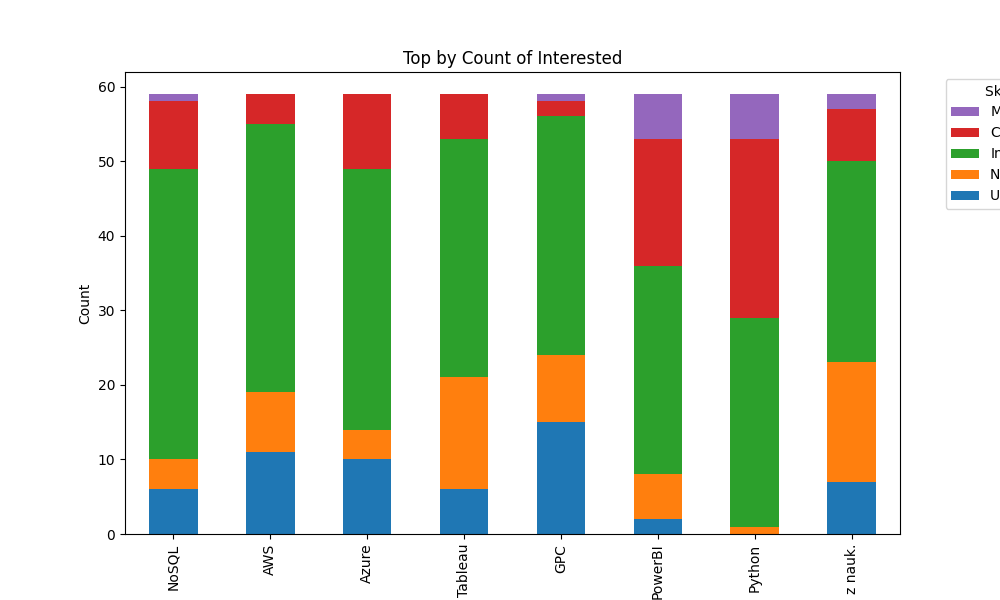
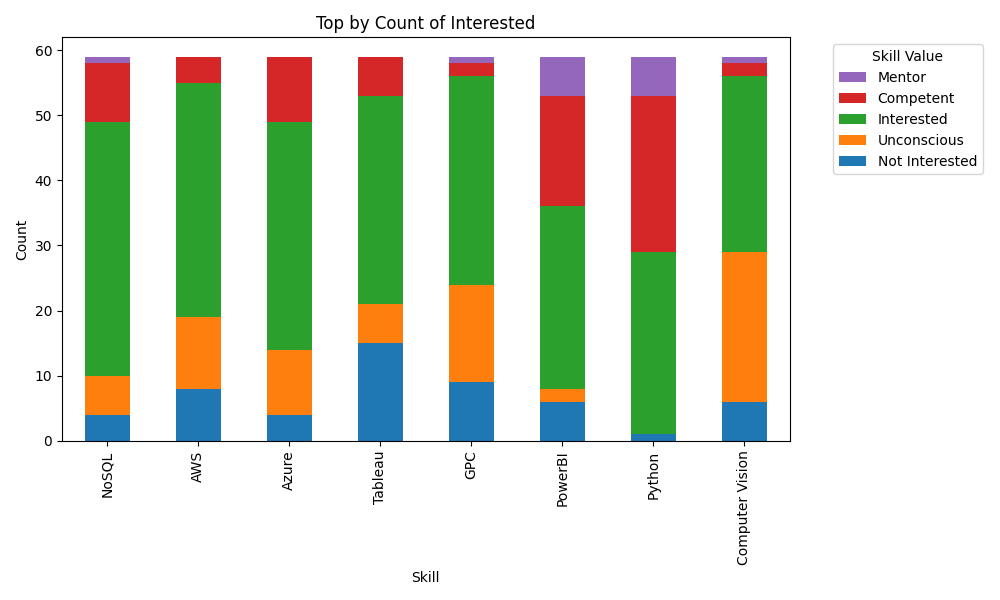
amending pipelines

diff --git a/src/wait_people_analytics/pipelines/clustering/nodes.py b/src/wait_people_analytics/pipelines/clustering/nodes.py
@@ -1,18 +1,143 @@
 from typing import Any
 
+import numpy as np
 import pandas as pd
 import matplotlib.pyplot as plt
 import scipy.cluster.hierarchy as sch
+import seaborn as sns
+from sklearn.cluster import KMeans
+from sklearn.cluster import AgglomerativeClustering
 
 
-def generate_hierarchical_clustering_visual(df: pd.DataFrame) -> Any:
-    filtered_df = df.drop(columns="ID")
-    filtered_df = filtered_df.replace({0: 1, 1: 0})
-    clustering = sch.linkage(filtered_df, method="ward")
-    plt.figure(figsize=(10, 4))
-    sch.dendrogram(clustering)
-    plt.xticks(rotation=90)
-    plt.title("Dendrogram")
-    plt.xlabel("UserId")
-    plt.ylabel("Distance")
+def prepare_data_for_clustering(
+    df: pd.DataFrame,
+    clustering_skill_scaling: dict[int, int],
+    selected_columns: list[str],
+) -> pd.DataFrame:
+    df = df[[*selected_columns]]
+    ids = df["ID"]
+    df = df.drop(columns="ID")
+    replaced = df.replace(clustering_skill_scaling)
+    replaced.insert(0, "ID", "")
+    replaced["ID"] = ids
+    return replaced
+
+
+def generate_hierarchical_clustering_visual(
+    df: pd.DataFrame,
+    hierarchical_params: dict[str, Any],
+) -> Any:
+    df = df.drop(columns="ID")
+
+    ac = AgglomerativeClustering(
+        **{
+            **hierarchical_params,
+            "distance_threshold": 0,
+            "n_clusters": None,
+        }
+    )
+    model = ac.fit(df)
+
+    counts = np.zeros(model.children_.shape[0])
+    n_samples = len(model.labels_)
+    for i, merge in enumerate(model.children_):
+        current_count = 0
+        for child_idx in merge:
+            if child_idx < n_samples:
+                current_count += 1  # leaf node
+            else:
+                current_count += counts[child_idx - n_samples]
+        counts[i] = current_count
+
+    linkage_matrix = np.column_stack(
+        [model.children_, model.distances_, counts]
+    ).astype(float)
+
+    # Plot the corresponding dendrogram
+    sch.dendrogram(linkage_matrix)
+
+    # plt.figure(figsize=(10, 4))
+    # plt.xticks(rotation=90)
+    # plt.title("Dendrogram")
+    # plt.xlabel("UserId")
+    # plt.ylabel("Distance")
+    return plt
+
+
+def generate_hierarchical_table(
+    df: pd.DataFrame,
+    hierarchical_params: dict[str, Any],
+) -> Any:
+    df_copy = df.copy()
+    df = df.drop(columns="ID")
+
+    ac = AgglomerativeClustering(**hierarchical_params)
+    clustering = ac.fit(df)
+
+    df_copy.insert(1, "group", "")
+    df_copy["group"] = clustering.labels_
+    return df_copy
+
+
+def generate_k_means_sse_plot(df: pd.DataFrame, k_means_params: dict[str, Any]) -> Any:
+    df = df.drop(columns="ID")
+    k = range(1, 20)
+    tries = 10
+    sum_squared_errors: list[float] = []
+
+    for i in k:
+        errors = []
+        for t in range(tries):
+            model = KMeans(
+                **{
+                    **k_means_params,
+                    "n_clusters": i,
+                    "max_iter": 300000,
+                }
+            )
+            model.fit_predict(df)
+            errors.append(model.inertia_)
+        sum_squared_errors.append(sum(errors)/len(errors))
+
+    plt.plot(k, sum_squared_errors)
+    plt.xlabel('K-Value')
+    plt.ylabel('Sum of Squared Errors')
+    plt.tight_layout()
+    return plt
+
+
+def generate_k_means_clusters(df: pd.DataFrame, k_means_params: dict[str, Any]) -> Any:
+    df_copy = df.copy()
+    df = df.drop(columns="ID")
+
+    model = KMeans(**k_means_params)
+    model.fit_predict(df)
+
+    df_copy.insert(1, "group", "")
+    df_copy["group"] = model.labels_
+    return df_copy
+
+
+def generate_heatmap(
+    df: pd.DataFrame,
+    clustering_skill_scaling: dict[int, int],
+) -> Any:
+    """Generate heatmap
+
+    Args:
+        df: dataframe.
+    Returns:
+        Matplotlib plit
+    """
+    df.drop(columns=["ID"], inplace=True)
+    reverse_clustering_skill_scaling = {
+        value: key
+        for key, value in clustering_skill_scaling.items()
+    }
+    df.replace(reverse_clustering_skill_scaling)
+    df = df.sort_values(by="group", ascending=False)
+    plt.figure(figsize=(18, 13))
+    sns.heatmap(df, cbar=False, cmap="YlGnBu")
+    plt.title("Heatmap")
+    plt.tight_layout()
     return plt

diff --git a/src/wait_people_analytics/pipelines/insights/nodes.py b/src/wait_people_analytics/pipelines/insights/nodes.py
@@ -1,4 +1,4 @@
-from typing import Any
+from typing import Any, Optional
 
 import pandas as pd
 import matplotlib.pyplot as plt
@@ -19,7 +19,7 @@ def generate_top_interested_stackedbar_visual(
 ) -> Any:
     df = _get_skill_count(df, analytics_legend_mapping)
     df = df.sort_values(by=2, ascending=False)
-    return _get_bar_plot(df, analytics_legend_mapping, "Top by Count of Interested")
+    return _get_bar_plot(df, analytics_legend_mapping, "Top by Count of Interested", top_n=8)
 
 
 def generate_top_not_interested_stackedbar_visual(
@@ -28,7 +28,7 @@ def generate_top_not_interested_stackedbar_visual(
 ) -> Any:
     df = _get_skill_count(df, analytics_legend_mapping)
     df = df.sort_values(by=1, ascending=False)
-    return _get_bar_plot(df, analytics_legend_mapping, "Top by Count of Not Interested")
+    return _get_bar_plot(df, analytics_legend_mapping, "Top by Count of Not Interested", top_n=8)
 
 
 def generate_top_unconscious_stackedbar_visual(
@@ -37,13 +37,13 @@ def generate_top_unconscious_stackedbar_visual(
 ) -> Any:
     df = _get_skill_count(df, analytics_legend_mapping)
     df = df.sort_values(by=0, ascending=False)
-    return _get_bar_plot(df, analytics_legend_mapping, "Top by Count of Unconscious")
+    return _get_bar_plot(df, analytics_legend_mapping, "Top by Count of Unconscious", top_n=8)
 
 
 def _get_skill_count(df: pd.DataFrame, mapping: dict[int, str]) -> pd.DataFrame:
     skill_values = list(mapping.keys())
     skill_counts = {value: [] for value in skill_values}
-
+    df.drop(columns=["ID"], inplace=True)
     for col in df.columns[1:]:
         for value in skill_values:
             count = (df[col] == value).sum()
@@ -52,12 +52,18 @@ def _get_skill_count(df: pd.DataFrame, mapping: dict[int, str]) -> pd.DataFrame:
     return pd.DataFrame(skill_counts, index=df.columns[1:])
 
 
-def _get_bar_plot(df: pd.DataFrame, mapping: dict[int: str], plot_title: str) -> Any:
+def _get_bar_plot(
+    df: pd.DataFrame,
+    mapping: dict[int: str],
+    plot_title: str,
+    top_n: Optional[int] = None,
+) -> Any:
     skill_values = list(mapping.keys())
 
-    count_df = df.head(8)
+    if top_n:
+        df = df.head(8)
     plt.figure(figsize=(10, 6))
-    ax = count_df.plot(kind="bar", stacked=True, figsize=(10, 6))
+    ax = df.plot(kind="bar", stacked=True, figsize=(10, 6))
     plt.title(plot_title)
     plt.xlabel("Skill")
     plt.ylabel("Count")
@@ -70,4 +76,5 @@ def _get_bar_plot(df: pd.DataFrame, mapping: dict[int: str], plot_title: str) ->
     sorted_labels = [mapping[idx] for idx in sort_order]
 
     ax.legend(sorted_handles, sorted_labels, title="Skill Value", bbox_to_anchor=(1.05, 1), loc="upper left")
+    plt.tight_layout()
     return plt

diff --git a/src/wait_people_analytics/pipelines/clustering/pipeline.py b/src/wait_people_analytics/pipelines/clustering/pipeline.py
@@ -1,7 +1,12 @@
 from kedro.pipeline import Pipeline, node, pipeline
 
 from .nodes import (
-    generate_hierarchical_clustering_visual
+    generate_hierarchical_clustering_visual,
+    generate_hierarchical_table,
+    generate_k_means_sse_plot,
+    generate_k_means_clusters,
+    prepare_data_for_clustering,
+    generate_heatmap,
 )
 
 
@@ -9,10 +14,59 @@ def create_pipeline(**kwargs) -> Pipeline:
     return pipeline(
         [
             node(
+                func=prepare_data_for_clustering,
+                inputs=[
+                    "processed_survey",
+                    "params:clustering_skill_scaling",
+                    "params:selected_columns",
+                ],
+                outputs="scaled_skills_table",
+                name="prepare_data_for_clustering",
+            ),
+            node(
                 func=generate_hierarchical_clustering_visual,
-                inputs="processed_survey",
+                inputs=[
+                    "scaled_skills_table",
+                    "params:hierarchical_params",
+                ],
                 outputs="hierarchical_clustering_visual",
                 name="generate_hierarchical_clustering_visual",
-            )
+            ),
+            node(
+                func=generate_hierarchical_table,
+                inputs=[
+                    "scaled_skills_table",
+                    "params:hierarchical_params",
+                ],
+                outputs="hierarchical_clustered_table",
+                name="generate_hierarchical_table",
+            ),
+            node(
+                func=generate_heatmap,
+                inputs=[
+                    "hierarchical_clustered_table",
+                    "params:clustering_skill_scaling",
+                ],
+                outputs="hierarchical_cluster_heatmap",
+                name="generate_hierarchical_heatmap",
+            ),
+            node(
+                func=generate_k_means_sse_plot,
+                inputs=[
+                    "scaled_skills_table",
+                    "params:k_means_params",
+                ],
+                outputs="k_means_sse_plot",
+                name="generate_k_means_sse_plot",
+            ),
+            node(
+                func=generate_k_means_clusters,
+                inputs=[
+                    "scaled_skills_table",
+                    "params:k_means_params",
+                ],
+                outputs="k_means_clustered_table",
+                name="generate_k_means_clusters",
+            ),
         ]
     )

diff --git a/src/wait_people_analytics/pipelines/preprocessing/pipeline.py b/src/wait_people_analytics/pipelines/preprocessing/pipeline.py
@@ -4,6 +4,7 @@ from .nodes import (
     change_participation_detail_to_df,
     drop_columns,
     filter_project_participants,
+    swap_zero_with_one,
 )
 
 
@@ -28,8 +29,14 @@ def create_pipeline(**kwargs) -> Pipeline:
             node(
                 func=filter_project_participants,
                 inputs="numeric_df",
-                outputs="processed_survey",
+                outputs="filtered_survey",
                 name="filter_project_participants",
+            ),
+            node(
+                func=swap_zero_with_one,
+                inputs="filtered_survey",
+                outputs="processed_survey",
+                name="swap_zero_with_one",
             ),
         ]
     )

diff --git a/src/wait_people_analytics/pipelines/preprocessing/nodes.py b/src/wait_people_analytics/pipelines/preprocessing/nodes.py
@@ -97,3 +97,11 @@ def filter_project_participants(df: pd.DataFrame) -> Any:
     df = df[df["Participant"] == 1]
     df = df.drop(columns=["Participant", "Organizer", "Consumer"])
     return df
+
+
+def swap_zero_with_one(df: pd.DataFrame) -> pd.DataFrame:
+    ids = df["ID"]
+    df = df.drop(columns="ID")
+    replaced = df.replace({0: 1, 1: 0})
+    replaced["ID"] = ids
+    return replaced

diff --git a/src/wait_people_analytics/pipelines/analysis/nodes.py b/src/wait_people_analytics/pipelines/analysis/nodes.py
@@ -9,6 +9,7 @@ import seaborn as sns
 def generate_corr_matrix_visual(df: pd.DataFrame) -> Any:
     df = df.copy()
     df = df.drop(columns=["ID"])
+    plt.tight_layout()
     numeric_df = df.select_dtypes(include=[np.number])
     corr_matrix = numeric_df.corr(method='spearman')
 

diff --git a/src/wait_people_analytics/pipelines/raw/nodes.py b/src/wait_people_analytics/pipelines/raw/nodes.py
@@ -75,4 +75,5 @@ def generate_missing_value_heatmap(df: pd.DataFrame) -> Any:
     plt.figure(figsize=(18, 13))
     sns.heatmap(df.isnull(), cbar=False, cmap="YlGnBu")
     plt.title("Heatmap of Missing Values")
+    plt.tight_layout()
     return plt
